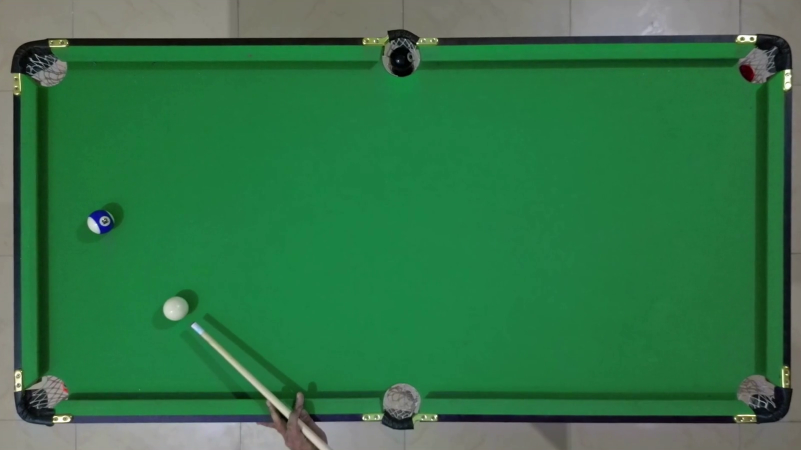
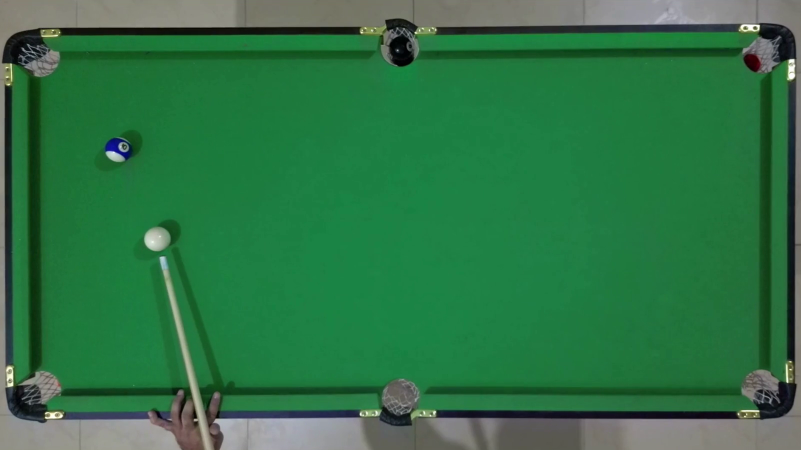
predict bounce

Changed region(s): [[0.0, 0.0311, 1.0, 1.0], [0.1248, 0.28, 0.1873, 0.3733]]

diff --git a/main.py b/main.py
@@ -218,29 +218,6 @@ def detectCollision(cueBall, coloredBall):
         return True, collisionPt
     return False, []
 
-def pathPrediction(collisionPoint, coloredBall, paths, equation, m=0, n=0):
-    # Colored ball path
-    if not(equation):
-        ballCenter = [coloredBall[0]+coloredBall[2]//2, coloredBall[1]+coloredBall[3]//2]
-        m2, n2 = lineEquation(collisionPoint, [ballCenter[0]+1, ballCenter[1]+1])
-    else:
-        m2, n2 = (-m), n
-    
-    if collisionPoint[0] > coloredBall[0]+coloredBall[2]//2:
-        x2 = 30
-    else:
-        x2 = 790
-    y2 = int((m2*x2)+n2)
-
-    if y2 >= 390:
-        y2 = 390
-        x2 = int((y2-n2)/m2)
-    if y2 <= 60:
-        y2 = 60
-        x2 = int((y2-n2)/m2)
-    paths.append([x2, y2])
-    return paths
-    
 def bouncePrediction(point, radius, holes):
     color = (0,0,200)
     inHole = False
@@ -251,6 +228,34 @@ def bouncePrediction(point, radius, holes):
             color = (0,200,0)
 
     return color, inHole
+
+def pathPrediction(collisionPoint, coloredBall, paths, holes):
+    # Colored ball path
+    ballCenter = [coloredBall[0]+coloredBall[2]//2, coloredBall[1]+coloredBall[3]//2]
+    m2, n2 = lineEquation(collisionPoint, [ballCenter[0]+1, ballCenter[1]+1])
+    
+    for i in range(0,2):
+        if collisionPoint[0] > coloredBall[0]+coloredBall[2]//2:
+            x2 = 30
+        else:
+            x2 = 790
+        y2 = int((m2*x2)+n2)
+
+        if y2 >= 390:
+            y2 = 390
+            x2 = int((y2-n2)/m2)
+        if y2 <= 60:
+            y2 = 60
+            x2 = int((y2-n2)/m2)
+        paths.append([x2, y2])
+        color, inHole = bouncePrediction(paths[-1], coloredBalls[2]//2, holes)
+        if inHole:
+            return paths, color, inHole
+        else:
+            m2 = -m2
+            n2 = y2-(m2*x2)
+
+    return paths, color, inHole
 
 # Control all the calculations used for the prediction
 def shotPrediction(taco, cueBall, coloredBalls, holes):
@@ -275,8 +280,7 @@ def shotPrediction(taco, cueBall, coloredBalls, holes):
             if collision:
                 x1, y1 = collisionPoint[0], collisionPoint[1]
                 paths = [[coloredBalls[0]+coloredBalls[2]//2, coloredBalls[1]+coloredBalls[3]//2]]
-                paths = pathPrediction(collisionPoint, coloredBalls, paths, False)
-                color, inHole = bouncePrediction(paths[-1], coloredBalls[2]//2, holes)
+                paths, color, inHole = pathPrediction(collisionPoint, coloredBalls, paths, holes)
                 for i, path in enumerate(paths):
                     if i == 0:
                         pass
@@ -314,8 +318,10 @@ while True:
     #filterImg = findColoredBalls(imgCropped)
 
     # Start the calculations
-    shotPrediction(taco, cueBall, coloredBalls, holes)
+    if taco and cueBall and coloredBalls:
+        shotPrediction(taco, cueBall, coloredBalls, holes)
     #finalImg = stackImages(0.7, [imgCropped, taco])
     cv2.imshow("Result", imgRaw)
-    if cv2.waitKey(10) & 0xFF == ord('q'):
+    cv2.imwrite("screenshot.png", imgRaw)
+    if cv2.waitKey(75) & 0xFF == ord('q'):
         break
